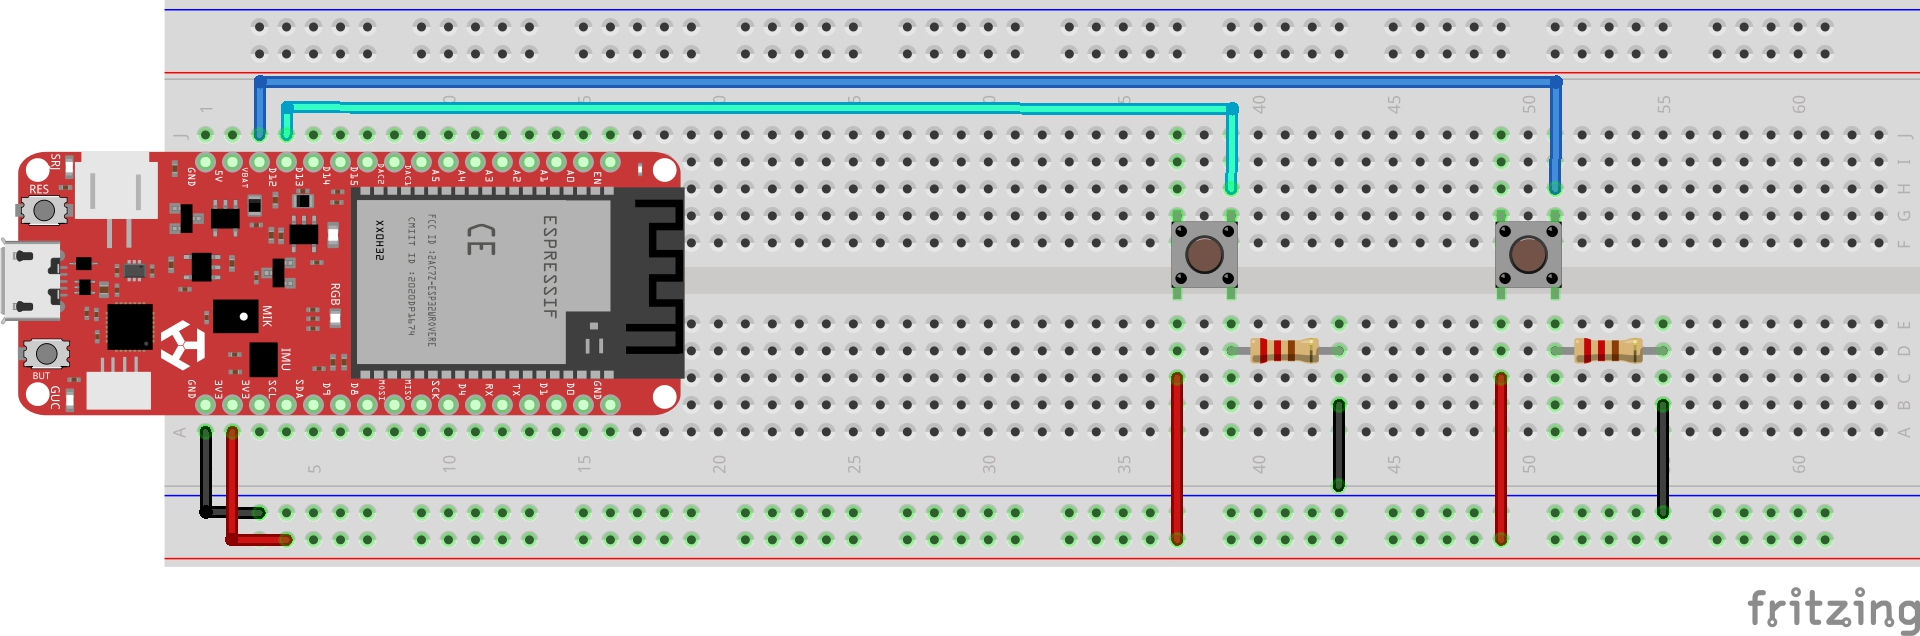
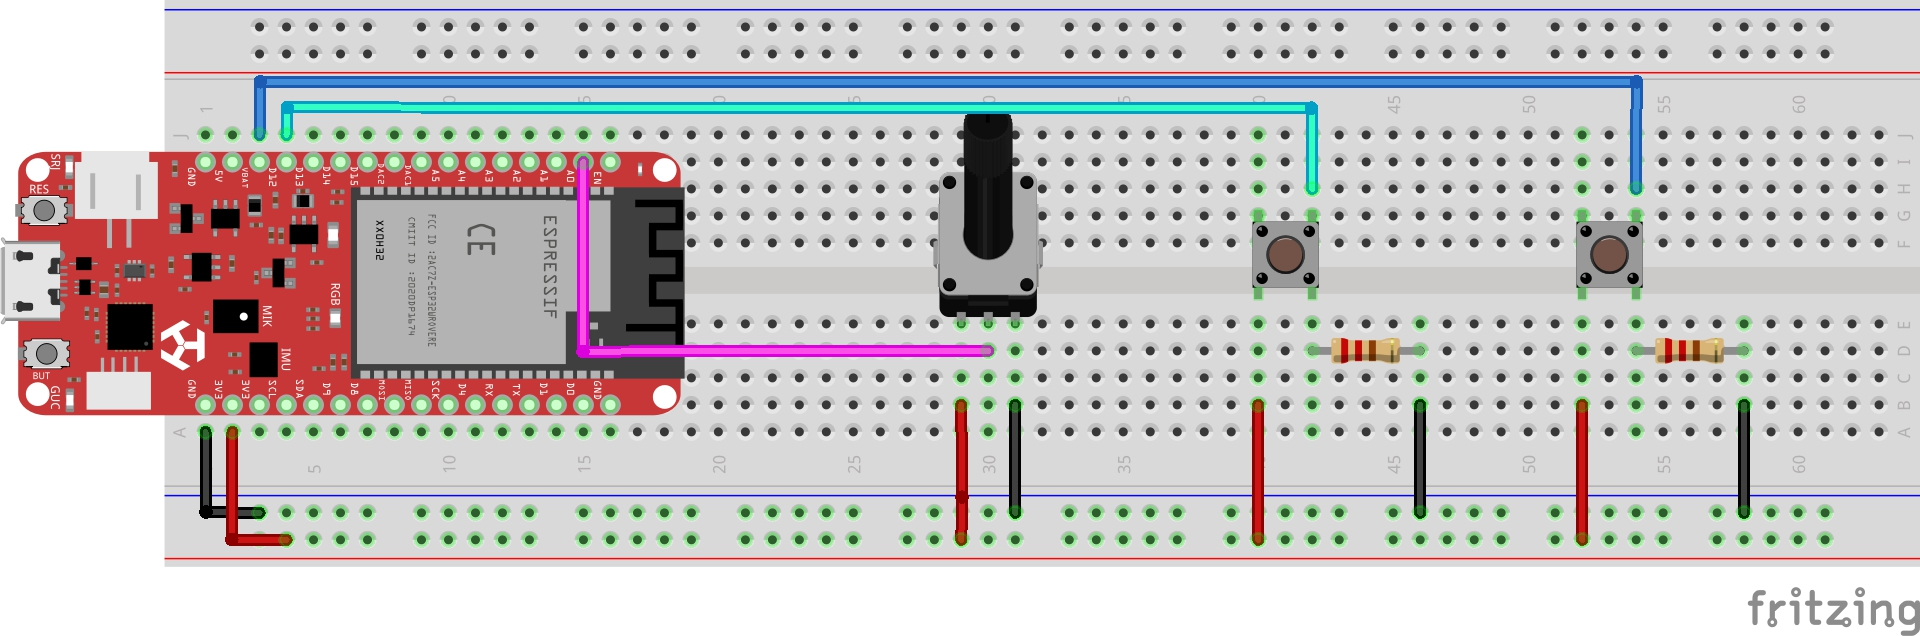
add: example.config.js, potansiyometre

Changed region(s): [[0.2812, 0.1195, 0.9375, 0.8664], [0.9062, 0.6274, 0.9375, 0.8066], [0.1562, 0.1494, 0.2188, 0.1792]]

diff --git a/example.config.js b/example.config.js
@@ -1,0 +1,12 @@
+// buraya kendi firebaseConfig nesnenizi kopyalayın
+const firebaseConfig = {
+    apiKey: "",
+    authDomain: "",
+    databaseURL: "",
+    projectId: "",
+    storageBucket: "",
+    messagingSenderId: "",
+    appId: ""
+};
+
+export default firebaseConfig;

diff --git a/README.md b/README.md
@@ -9,7 +9,11 @@ $ git clone https://github.com/orhanemree/deneyapkart-javascript-firebase.git
 $ cd deneyapkart-javascript-firebase
 ```
 * Deneyapkart ile şemadaki devreyi kurun ve kodu (``deneyapkart-javascript-firebase.ino``) karta gönderin.
-* Firebase hesabınızdan yeni bir web projesi oluşturup gerçek zamanlı veritabanı kullanmaya başlayın. Bu işlemden sonra proje ana dizininde bir ``config.js`` dosyası oluşturmanız gerekecek. Bu dosyaya aşağıdaki örnekte gösterilen firebaseConfig verisini kopyalayın. Ve en altına ``export default firebaseConfig`` yazın.
+* Firebase hesabınızdan yeni bir web projesi oluşturup gerçek zamanlı veritabanı kullanmaya başlayın. Veritabanına bağlanmak için Firebase config bilgilerini kullanmanız gerekiyor. Önrek config dosyası üzerinde bu işlemi yapabilirsiniz.
+```bash
+$ cp example.config.js config.js
+```
+* ``config.js`` dosyasını açın ve aşağıda resimdeki gibi Firebase'ın size verdiği firebaseConfig nesnesini dosyada uygun yere kopyalayın.
  
 <img src="./firebase-config.png" alt="deneyapkart-javascript-firebase">
 
@@ -25,6 +29,10 @@ $ npm run dev
 
 ## 🧮 Şema
 <img src="./scheme.jpg" alt="deneyapkart-javascript-firebase">
+
+## 🎉 Özellikler
+* İki farklı butondan dijital veri oku ve veritabanına kaydet.
+* Potansiyometreden analog veri oku ve veritabanına kaydet.
 
 ## 📚 Kaynaklar
 * [Deneyap Kart](https://deneyapkart.org/)
